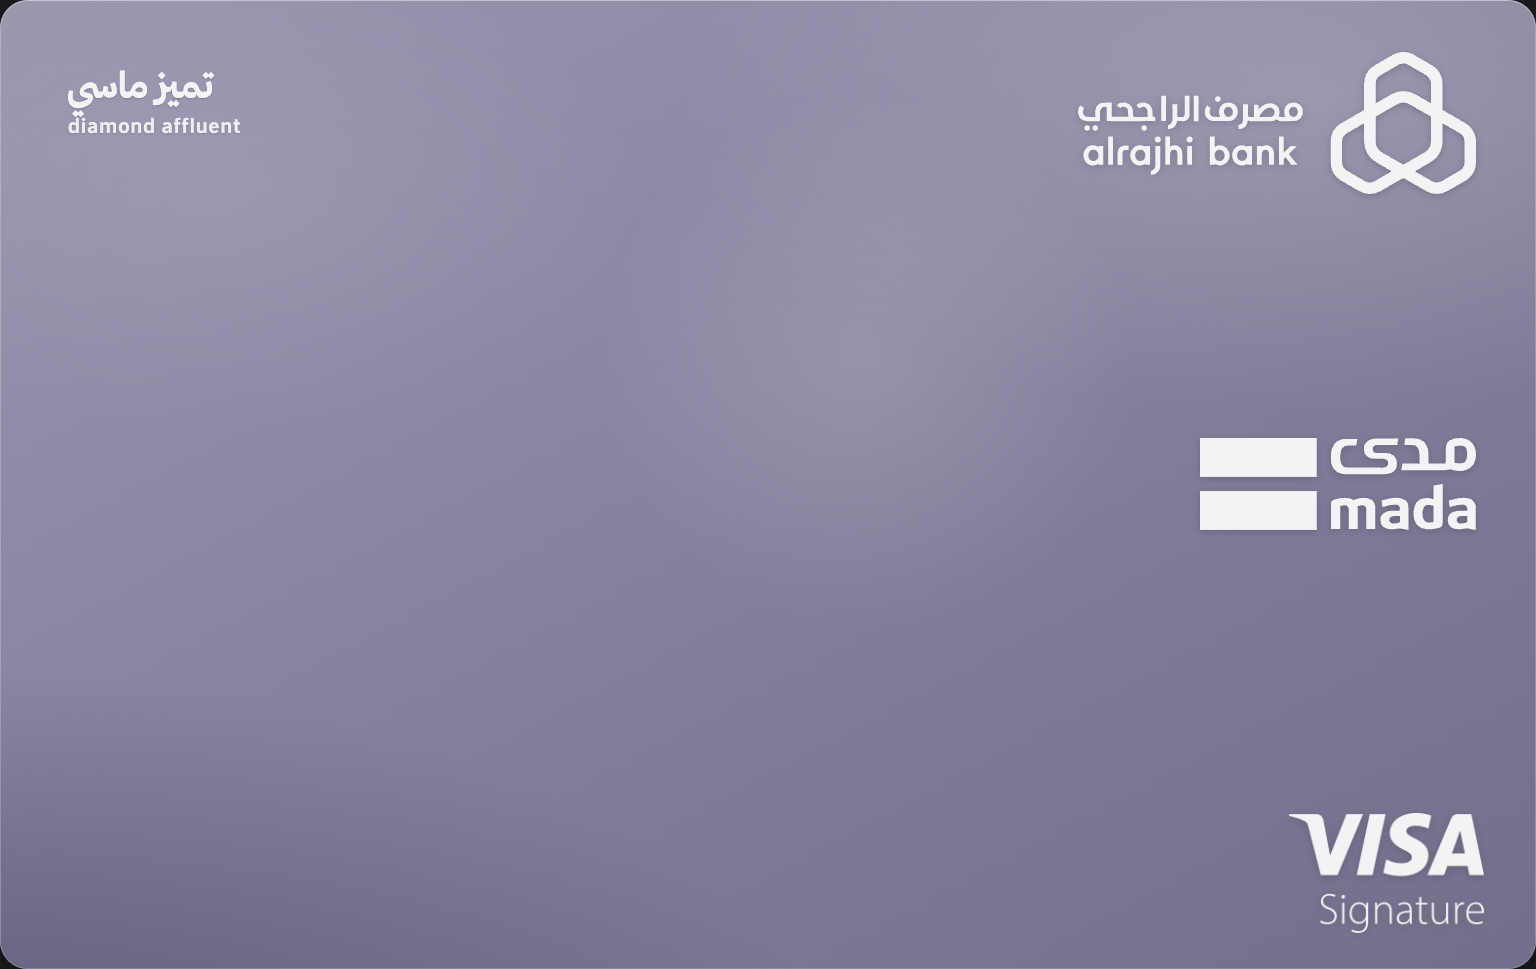
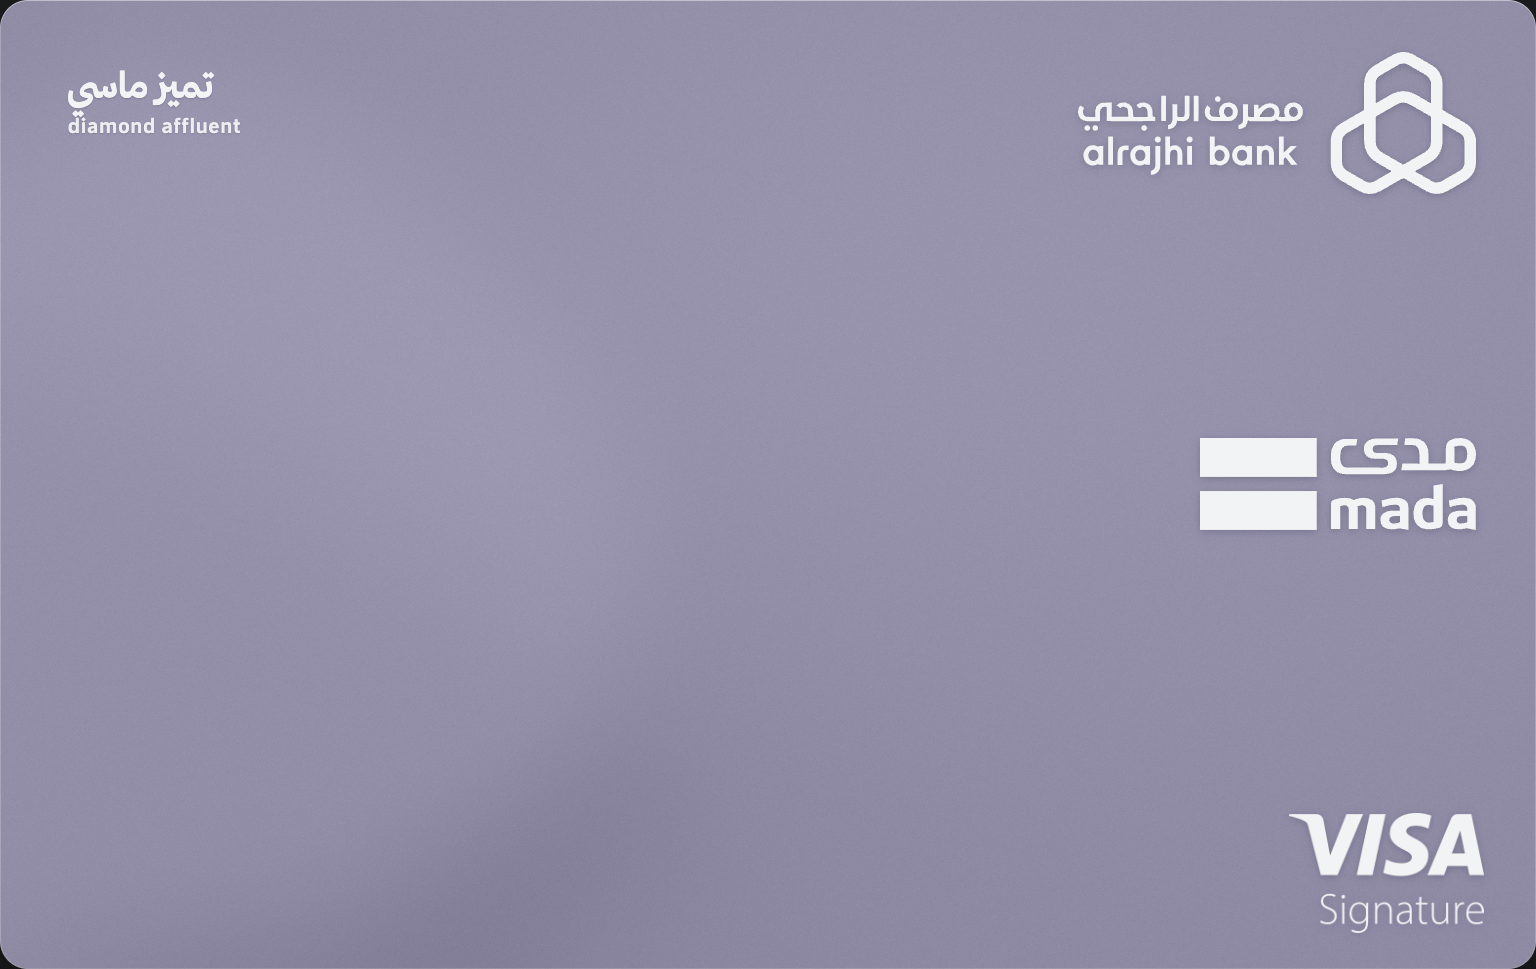
Refactor card styles in HTML for improved visual presentation. Updated background properties and removed unnecessary elements to streamline design. Adjusted opacity for better layering effects. Updated associated PNG image for consistency.

Changed region(s): [[0.7188, 0.5263, 1.0, 1.0], [0.0, 0.8359, 0.2188, 1.0]]

diff --git a/brand-package/html/بطاقة-هوية-راجحي.html b/brand-package/html/بطاقة-هوية-راجحي.html
@@ -16,18 +16,14 @@ body{
 }
 #card{
   width:1536px;height:969px;position:relative;overflow:hidden;border-radius:28px;
-  /* Diamond Affluent lavender-grey #8B87A3 */
-  background:
-    radial-gradient(ellipse 75% 60% at 85% 10%, rgba(255,255,255,.16), transparent 55%),
-    radial-gradient(ellipse 55% 50% at 15% 20%, rgba(255,255,255,.08), transparent 50%),
-    linear-gradient(152deg, #9a96b0 0%, #8b87a3 38%, #7e7a96 68%, #736f8a 100%);
+  background:#8b87a3 url("../png/بطاقة-فضية/diamond-bg.png") center / cover no-repeat;
   box-shadow:
     0 40px 80px rgba(0,0,0,.45),
     inset 0 1px 0 rgba(255,255,255,.28),
     inset 0 -1px 0 rgba(0,0,0,.1);
 }
 #card::before{
-  content:"";position:absolute;inset:0;pointer-events:none;opacity:.28;mix-blend-mode:soft-light;
+  content:"";position:absolute;inset:0;pointer-events:none;opacity:.18;mix-blend-mode:soft-light;
   background:
     repeating-linear-gradient(92deg, transparent 0 1px, rgba(255,255,255,.04) 1px 2px),
     repeating-linear-gradient(0deg, transparent 0 2px, rgba(0,0,0,.03) 2px 3px);
@@ -35,18 +31,6 @@ body{
 #card::after{
   content:"";position:absolute;inset:0;border-radius:28px;pointer-events:none;
   box-shadow:inset 0 0 0 1px rgba(255,255,255,.22);
-}
-/* Diamond Affluent curved swoosh */
-.swoosh{
-  position:absolute;inset:0;pointer-events:none;
-  background:
-    radial-gradient(ellipse 130% 100% at -10% 120%, rgba(70,68,95,.72) 0%, transparent 52%),
-    radial-gradient(ellipse 95% 75% at 55% 138%, rgba(90,87,115,.48) 0%, transparent 48%);
-}
-.sheen{
-  position:absolute;width:560px;height:560px;border-radius:50%;
-  background:radial-gradient(circle, rgba(242,243,245,.14), transparent 68%);
-  left:38%;top:8%;pointer-events:none;filter:blur(8px);
 }
 .product{
   position:absolute;top:64px;left:68px;
@@ -89,9 +73,6 @@ body{
 </head>
 <body>
 <div id="card">
-  <div class="swoosh"></div>
-  <div class="sheen"></div>
-
   <div class="product">
     <div class="ar">تميز ماسي</div>
     <div class="en">diamond affluent</div>
